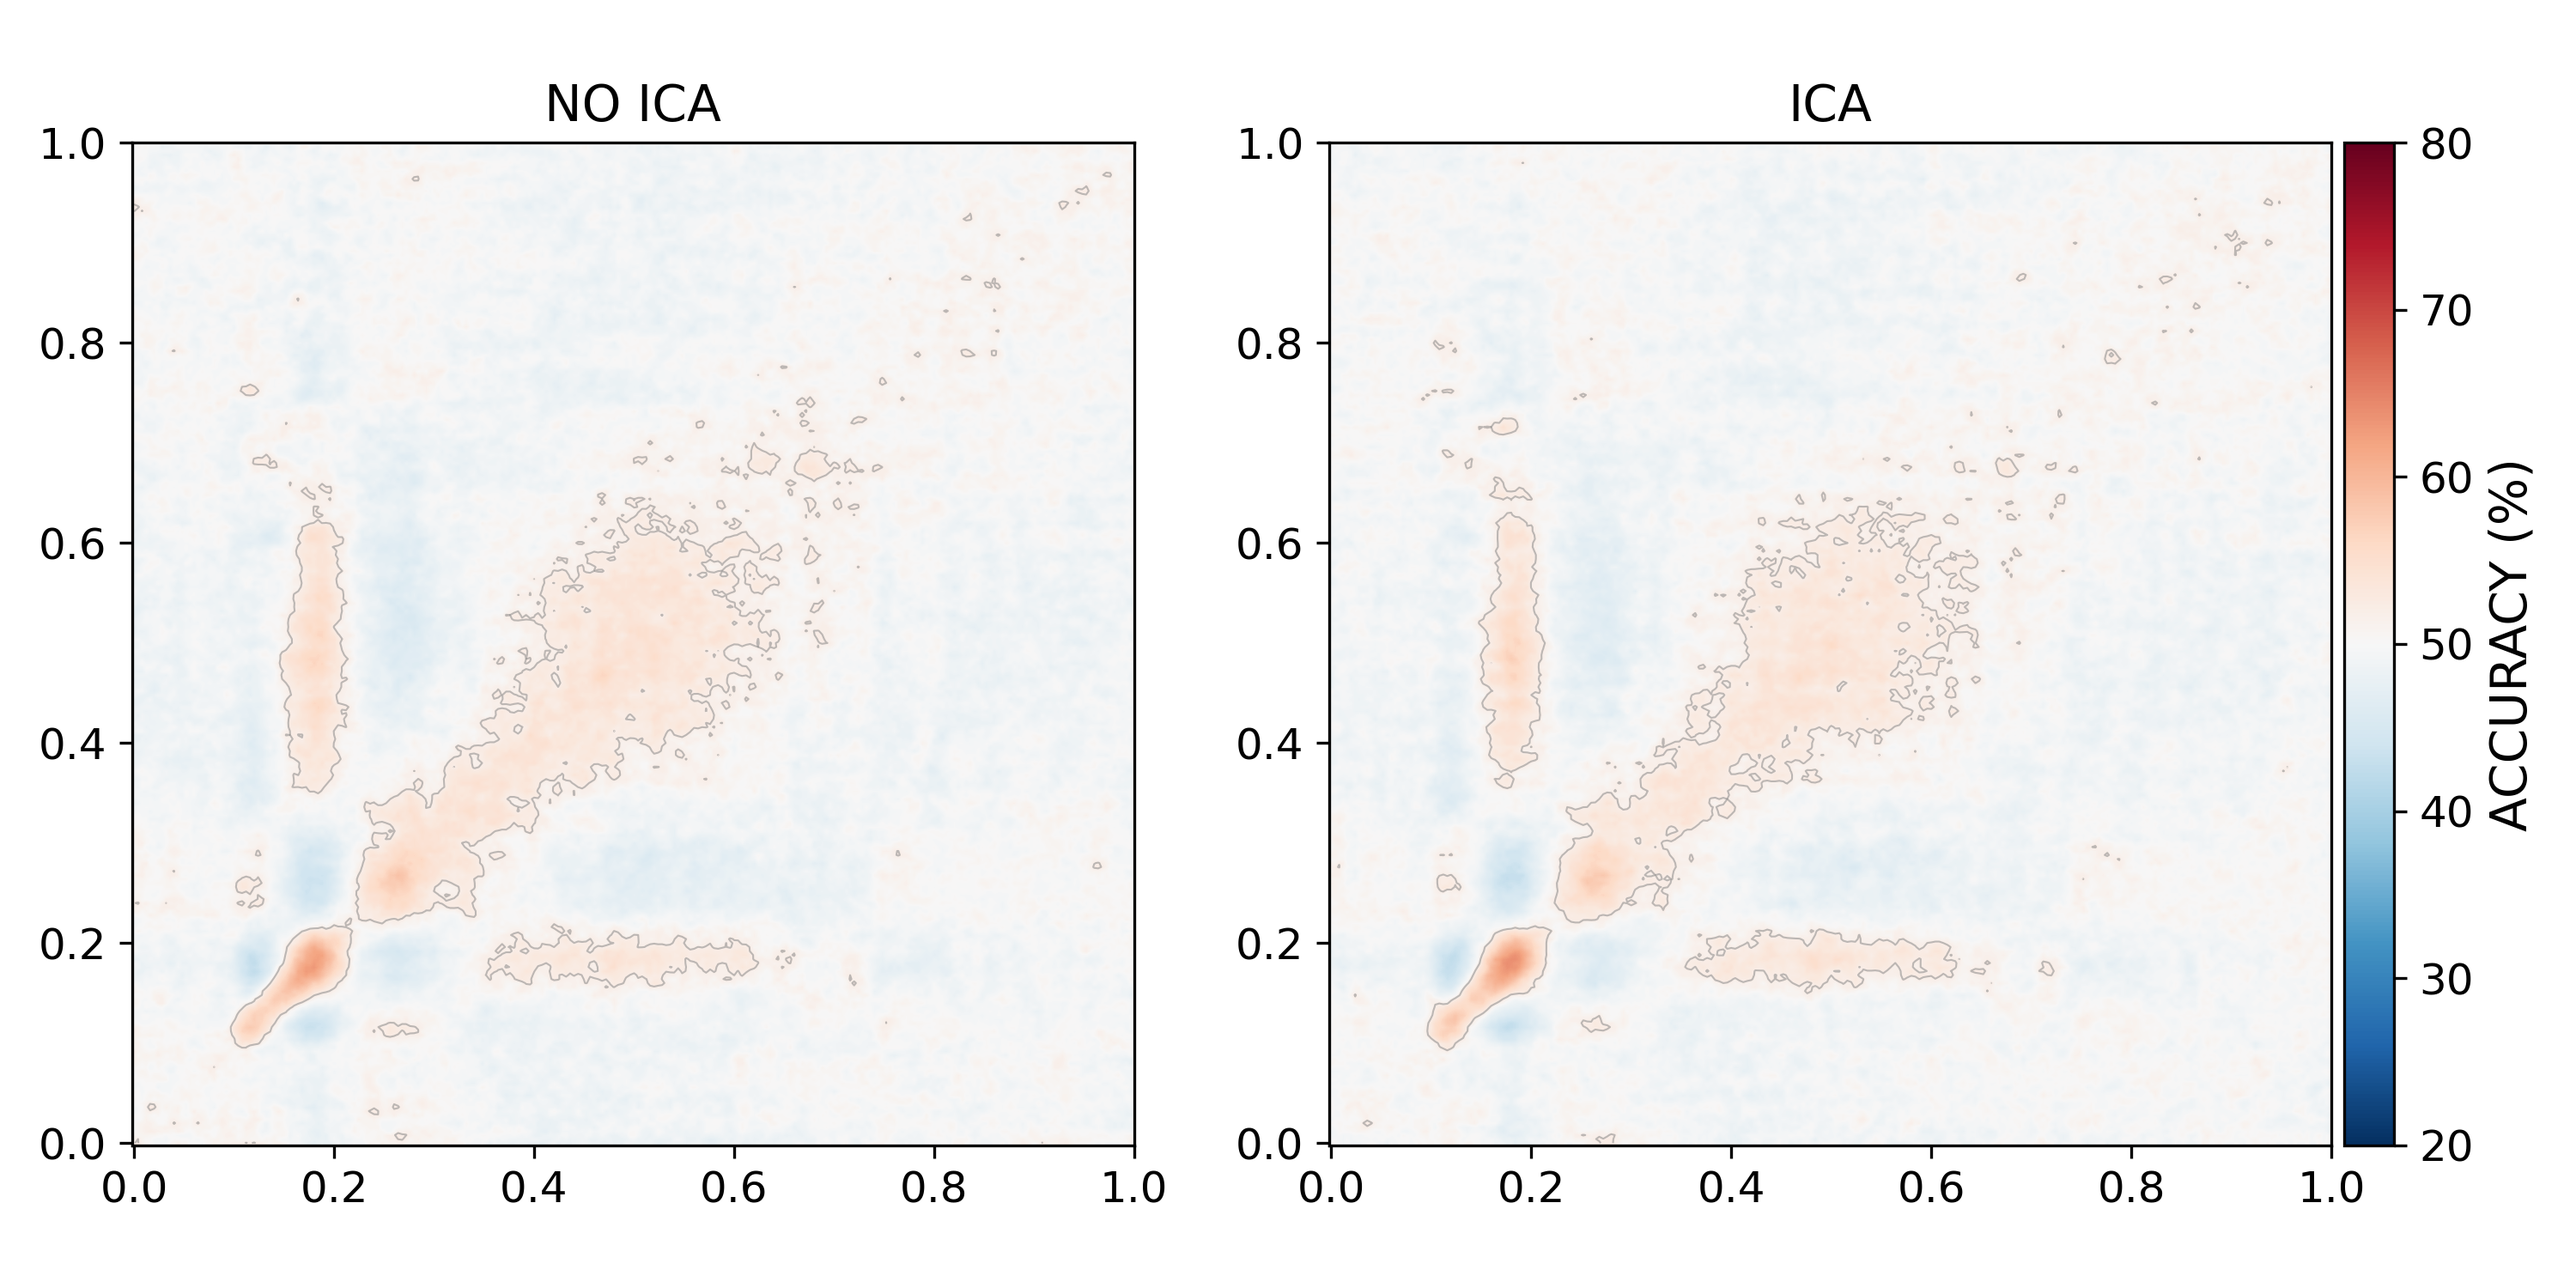
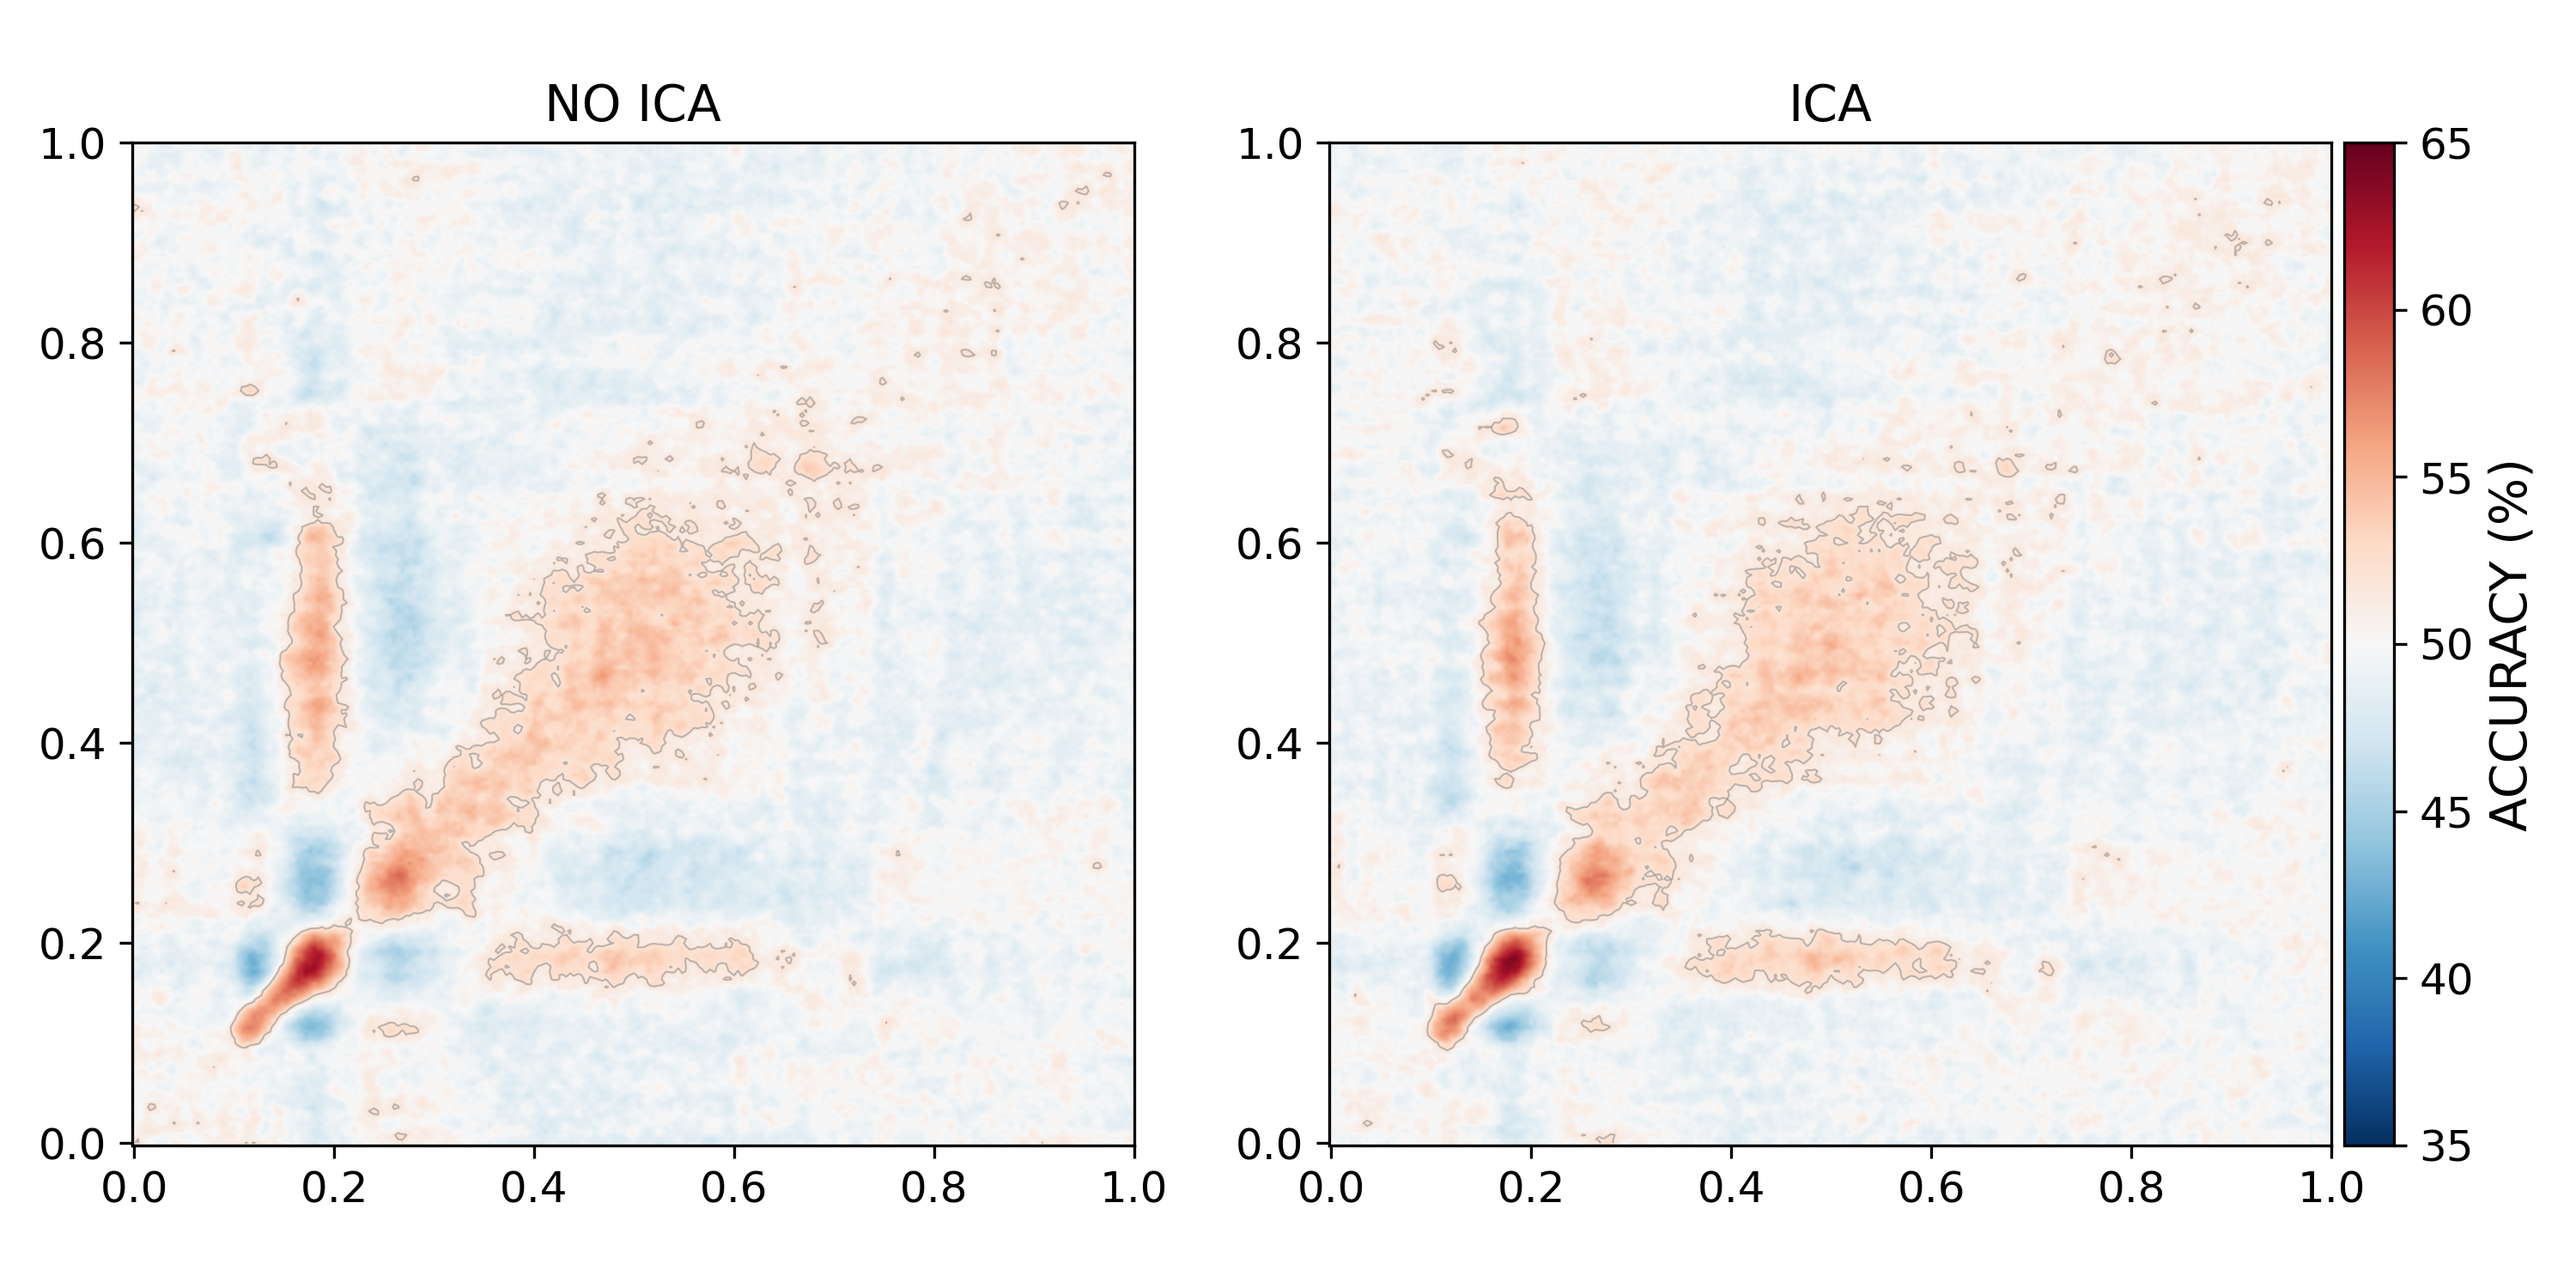
match other plots

diff --git a/decoding/ica/plot_results.py b/decoding/ica/plot_results.py
@@ -12,7 +12,7 @@ alpha = 0.001
 
 
 # set parameters for all plots
-plt.rcParams['font.family'] = 'Sans serif'
+plt.rcParams['font.family'] = 'Sans-serif'
 plt.rcParams['image.cmap'] = 'RdBu_r'
 plt.rcParams['image.interpolation'] = 'bilinear'
 plt.rcParams['axes.labelsize'] = 14
@@ -38,7 +38,7 @@ def session_plots_individual(accuracies: dict, alpha: float = 0.05, n_trials: in
         Number of trials in the session.
     """
     for f, acc in accuracies.items():
-        plt = plot.plot_tgm_fig(acc, vmin=20, vmax=80, chance_level=chance_level(588, alpha = alpha, p = 0.5))
+        plt = plot.plot_tgm_fig(acc, vmin=20, vmax=80, chance_level=chance_level(n_trials, alpha = alpha, p = 0.5))
         plt.tight_layout()
 
         out_path = os.path.join('plots', f'tgm_{f}.png')
@@ -68,13 +68,13 @@ def main_plot_generator():
     # with no_ica
     no_ica = np.array([acc for f, acc in accuracies.items() if 'no_ica' in f])
     no_ica = np.mean(no_ica, axis=0)
-    ax[0] = plot.plot_tgm_ax(no_ica, ax[0], vmin=20, vmax=80, chance_level=chance_level(588*11, alpha = alpha, p = 0.5))
+    ax[0] = plot.plot_tgm_ax(no_ica, ax[0], vmin=35, vmax=65, chance_level=chance_level(588*11, alpha = alpha, p = 0.5))
     ax[0].set_title('No ICA'.upper())
 
     # with ica
     ica = np.array([acc for f, acc in accuracies.items() if not 'no_ica' in f])
     ica = np.mean(ica, axis=0)
-    ax[1] = plot.plot_tgm_ax(ica, ax[1], vmin=20, vmax=80, chance_level=chance_level(588*11, alpha = alpha, p = 0.5))
+    ax[1] = plot.plot_tgm_ax(ica, ax[1], vmin=35, vmax=65, chance_level=chance_level(588*11, alpha = alpha, p = 0.5))
     ax[1].set_title('ICA'.upper())  
     
     # add subplot for colorbar
